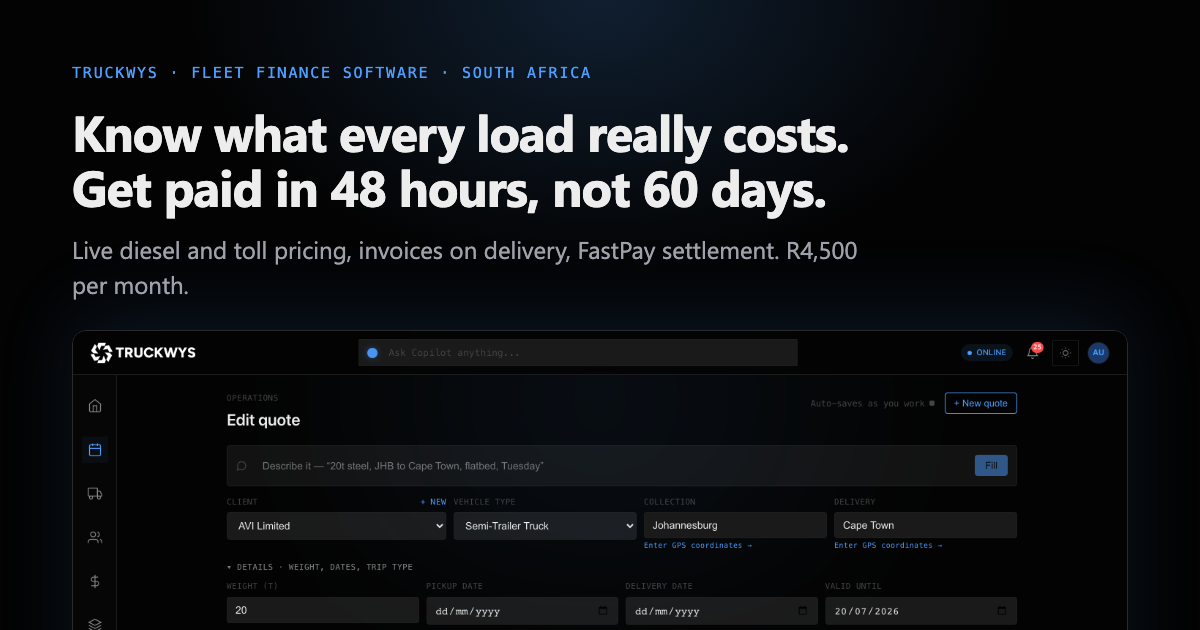
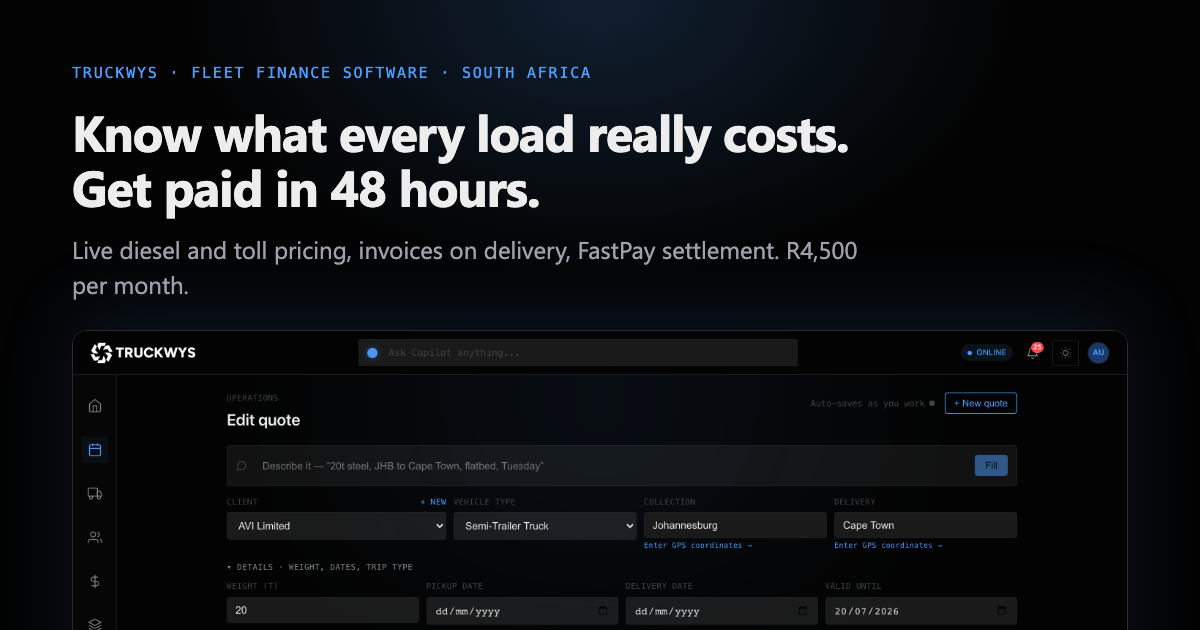
polish: bolder type-led hero, numbered steps, real integrations band, navy footer
Owner feedback round:
- Headline shortened to the persona-panel winner as-is: "Know what every
  load really costs. Get paid in 48 hours." (the "not 60 days" anchor read
  long).
- Hero is now pure type: bigger scale (72px max), no screenshot. The
  hero-quality dark quote-builder shot moved down to become Step 01 of the
  product story, and the four pillars are numbered steps (Step 01 Quote to
  Step 04 Capital).
- Integrations grew from a small strip into a full section with wordmark
  tiles: Xero, Cartrack, CtrlFleet, Email, PDF, WhatsApp, each with a
  one-line role. Tiles swap to real logo assets when the team supplies
  files.
- Footer is now a distinct deep-navy panel with a blue radial glow instead
  of blending into the white page.
- og-image regenerated to match the final headline.

The variant.com mockups shared in review were confirmed as old examples
and deliberately not used: their "deterministic intelligence / cognitive
financial operating system" language is the abstraction the headline
panels unanimously rejected, and they promise routing optimisation the
product does not do.

Changed region(s): [[0.4625, 0.2714, 0.7092, 0.3619]]

diff --git a/app/page.tsx b/app/page.tsx
@@ -22,7 +22,7 @@ export default function HomePage() {
         <div className="mx-auto max-w-6xl px-5 pb-0 pt-10 text-center md:pt-16">
           <div className="eyebrow eyebrow-accent mb-5">Fleet finance software · South Africa</div>
           <h1 className="text-hero mx-auto max-w-3xl text-ink">
-            Know what every load really costs. Get paid in 48 hours, not 60 days.
+            Know what every load really costs. Get paid in 48 hours.
           </h1>
           <p className="mx-auto mt-6 max-w-2xl text-[16px] leading-relaxed text-ink-2">
             TruckWys prices every quote with the live diesel price, the actual SANRAL
@@ -46,22 +46,8 @@ export default function HomePage() {
           </div>
         </div>
 
-        {/* Hero product shot */}
-        <div className="mx-auto mt-14 max-w-6xl px-5">
-          <div className="shot-frame">
-            <Image
-              src="/images/product/quote-builder-dark.png"
-              alt="The TruckWys quote builder pricing a Johannesburg to Cape Town load with the route on a map, fuel at the live diesel price, R1,115 of N1 tolls, and a quote total of R31,636"
-              width={1440}
-              height={900}
-              priority
-              className="w-full"
-            />
-          </div>
-        </div>
-
         {/* Stat strip */}
-        <div className="mx-auto max-w-6xl px-5 py-14">
+        <div className="mx-auto max-w-6xl px-5 pb-14 pt-16">
           <div className="grid grid-cols-2 gap-8 border-y border-line py-8 md:grid-cols-4">
             {[
               { v: '60 sec', l: 'to price a load' },
@@ -85,7 +71,7 @@ export default function HomePage() {
         <div className="mx-auto max-w-6xl px-5 py-24">
           <div className="grid items-center gap-12 lg:grid-cols-2">
             <div>
-              <div className="eyebrow eyebrow-accent mb-4">Quote</div>
+              <div className="eyebrow eyebrow-accent mb-4">Step 01 · Quote</div>
               <h2 className="text-display text-ink">
                 Every real cost, before you name a price
               </h2>
@@ -117,10 +103,11 @@ export default function HomePage() {
             </div>
             <div className="shot-frame">
               <Image
-                src="/images/product/quote-builder-light.png"
-                alt="TruckWys route options and cost breakdown showing fuel, tolls and base rate for three route choices"
+                src="/images/product/quote-builder-dark.png"
+                alt="The TruckWys quote builder pricing a Johannesburg to Cape Town load with the route on a map, fuel at the live diesel price, R1,115 of N1 tolls, and a quote total of R31,636"
                 width={1440}
                 height={900}
+                priority
                 className="w-full"
               />
             </div>
@@ -144,7 +131,7 @@ export default function HomePage() {
               </div>
             </div>
             <div className="order-1 lg:order-2">
-              <div className="eyebrow eyebrow-accent mb-4">Get paid</div>
+              <div className="eyebrow eyebrow-accent mb-4">Step 02 · Get paid</div>
               <h2 className="text-display text-ink">
                 The invoice sends itself. The money can arrive in 48 hours.
               </h2>
@@ -176,7 +163,7 @@ export default function HomePage() {
       <section id="numbers" className="bg-surface">
         <div className="mx-auto max-w-6xl px-5 py-24">
           <div className="mx-auto max-w-2xl text-center">
-            <div className="eyebrow eyebrow-accent mb-4">Know your numbers</div>
+            <div className="eyebrow eyebrow-accent mb-4">Step 03 · Know your numbers</div>
             <h2 className="text-display text-ink">
               What does each truck, route and client really make you?
             </h2>
@@ -203,7 +190,7 @@ export default function HomePage() {
         <div className="mx-auto max-w-6xl px-5 py-24">
           <div className="grid items-center gap-12 lg:grid-cols-2">
             <div>
-              <div className="eyebrow eyebrow-accent mb-4">Capital</div>
+              <div className="eyebrow eyebrow-accent mb-4">Step 04 · Capital</div>
               <h2 className="text-display text-ink">
                 Diesel money on a Tuesday, against Friday&apos;s invoices
               </h2>
@@ -238,24 +225,30 @@ export default function HomePage() {
 
       {/* Integrations */}
       <section className="border-t border-line bg-surface">
-        <div className="mx-auto max-w-6xl px-5 py-16 text-center">
-          <div className="eyebrow eyebrow-accent mb-3">Works with what you run</div>
-          <h2 className="text-[20px] font-semibold text-ink">
+        <div className="mx-auto max-w-6xl px-5 py-24 text-center">
+          <div className="eyebrow eyebrow-accent mb-4">Works with what you run</div>
+          <h2 className="text-display mx-auto max-w-2xl text-ink">
             Your TMS, tracking and books stay in the loop
           </h2>
-          <p className="mx-auto mt-3 max-w-xl text-[15px] text-ink-2">
+          <p className="mx-auto mt-4 max-w-xl text-[16px] text-ink-2">
             TruckWys handles the money side and connects to the tools you already
-            use: Xero for accounting, Cartrack for vehicle tracking, and email for
-            quotes your clients can accept in one click.
+            use. Your clients get quotes they can accept in one click.
           </p>
-          <div className="mt-8 flex flex-wrap items-center justify-center gap-4">
-            {['Xero', 'Cartrack', 'Email quoting', 'PDF invoices'].map((n) => (
-              <span
-                key={n}
-                className="card px-5 py-2.5 text-[14px] font-medium text-ink-2"
-              >
-                {n}
-              </span>
+          <div className="mx-auto mt-12 grid max-w-3xl grid-cols-2 gap-4 sm:grid-cols-3">
+            {[
+              { name: 'xero', style: { fontWeight: 700, letterSpacing: '-0.02em', textTransform: 'lowercase' as const }, note: 'Accounting sync' },
+              { name: 'Cartrack', style: { fontWeight: 700, letterSpacing: '-0.01em' }, note: 'Vehicle tracking' },
+              { name: 'CtrlFleet', style: { fontWeight: 600, letterSpacing: '-0.01em' }, note: 'Fleet management' },
+              { name: 'Email', style: { fontWeight: 600 }, note: 'One-click quote acceptance' },
+              { name: 'PDF', style: { fontWeight: 700 }, note: 'Branded invoices' },
+              { name: 'WhatsApp', style: { fontWeight: 600 }, note: 'Describe a load in a message' },
+            ].map((l) => (
+              <div key={l.name} className="card flex flex-col items-center justify-center gap-1 px-4 py-7">
+                <span className="text-[22px] leading-none text-ink" style={l.style}>
+                  {l.name}
+                </span>
+                <span className="text-[12px] text-ink-3">{l.note}</span>
+              </div>
             ))}
           </div>
         </div>

diff --git a/app/globals.css b/app/globals.css
@@ -28,7 +28,7 @@
   --warning: #b45309;
 
   /* Type scale (marketing display sizes + the app scale) */
-  --text-hero: clamp(40px, 6vw, 64px);
+  --text-hero: clamp(42px, 6.5vw, 72px);
   --text-display: clamp(30px, 4vw, 40px);
   --text-title: 20px;
   --text-subhead: 16px;
@@ -230,6 +230,20 @@ body {
     background:
       radial-gradient(56% 44% at 50% 0%, rgba(37, 99, 235, 0.09), transparent 78%),
       linear-gradient(to bottom, #f5f8ff, var(--surface) 55%);
+  }
+
+  /* Distinct deep-navy footer: darker than any section, blue-tinted, not the page grey */
+  .footer-dark {
+    --surface: #0d1526;
+    --ink: #e7eaf2;
+    --ink-2: #9aa3b5;
+    --ink-3: #8a94a8;
+    --line: rgba(255, 255, 255, 0.09);
+    --accent: #4d9eff;
+    background:
+      radial-gradient(80% 60% at 50% 0%, rgba(37, 99, 235, 0.12), transparent 70%),
+      #0a1120;
+    color: var(--ink);
   }
 
   /* Accent CTA band: deep blue gradient instead of black */

diff --git a/components/Footer.tsx b/components/Footer.tsx
@@ -18,7 +18,7 @@ const companyLinks = [
 
 export default function Footer() {
   return (
-    <footer className="border-t border-line bg-surface">
+    <footer className="footer-dark">
       <div className="mx-auto max-w-6xl px-5 py-16">
         <div className="grid gap-12 md:grid-cols-4">
           <div className="md:col-span-2">
@@ -27,7 +27,7 @@ export default function Footer() {
               alt="TruckWys"
               width={148}
               height={32}
-              className="h-7 w-auto"
+              className="h-7 w-auto invert"
             />
             <p className="mt-4 max-w-sm text-[14px] leading-relaxed text-ink-2">
               Fleet finance software for South African transporters. Quote with real
